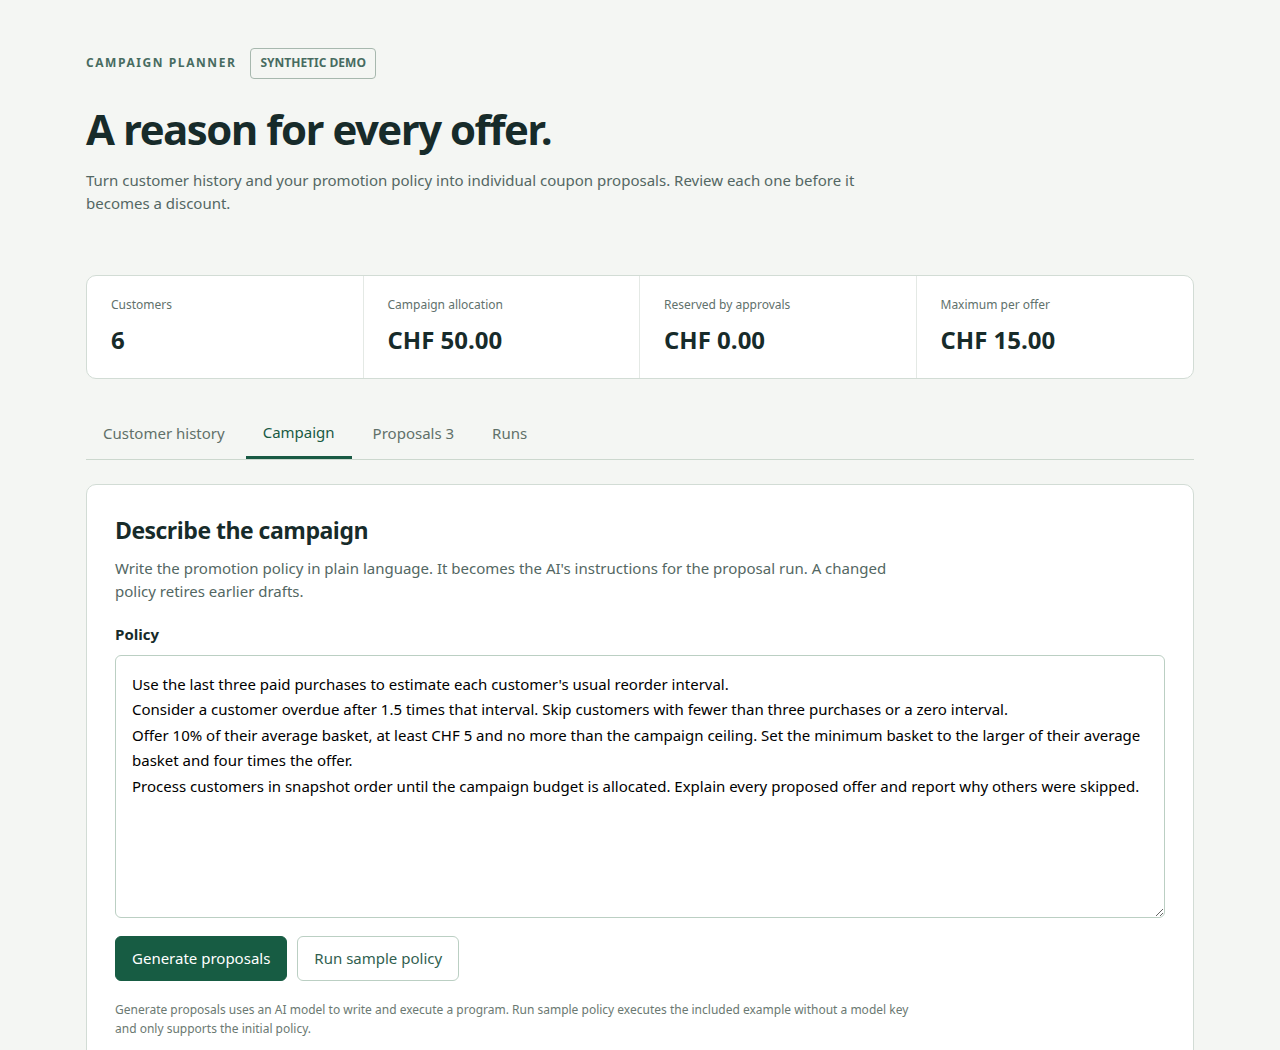
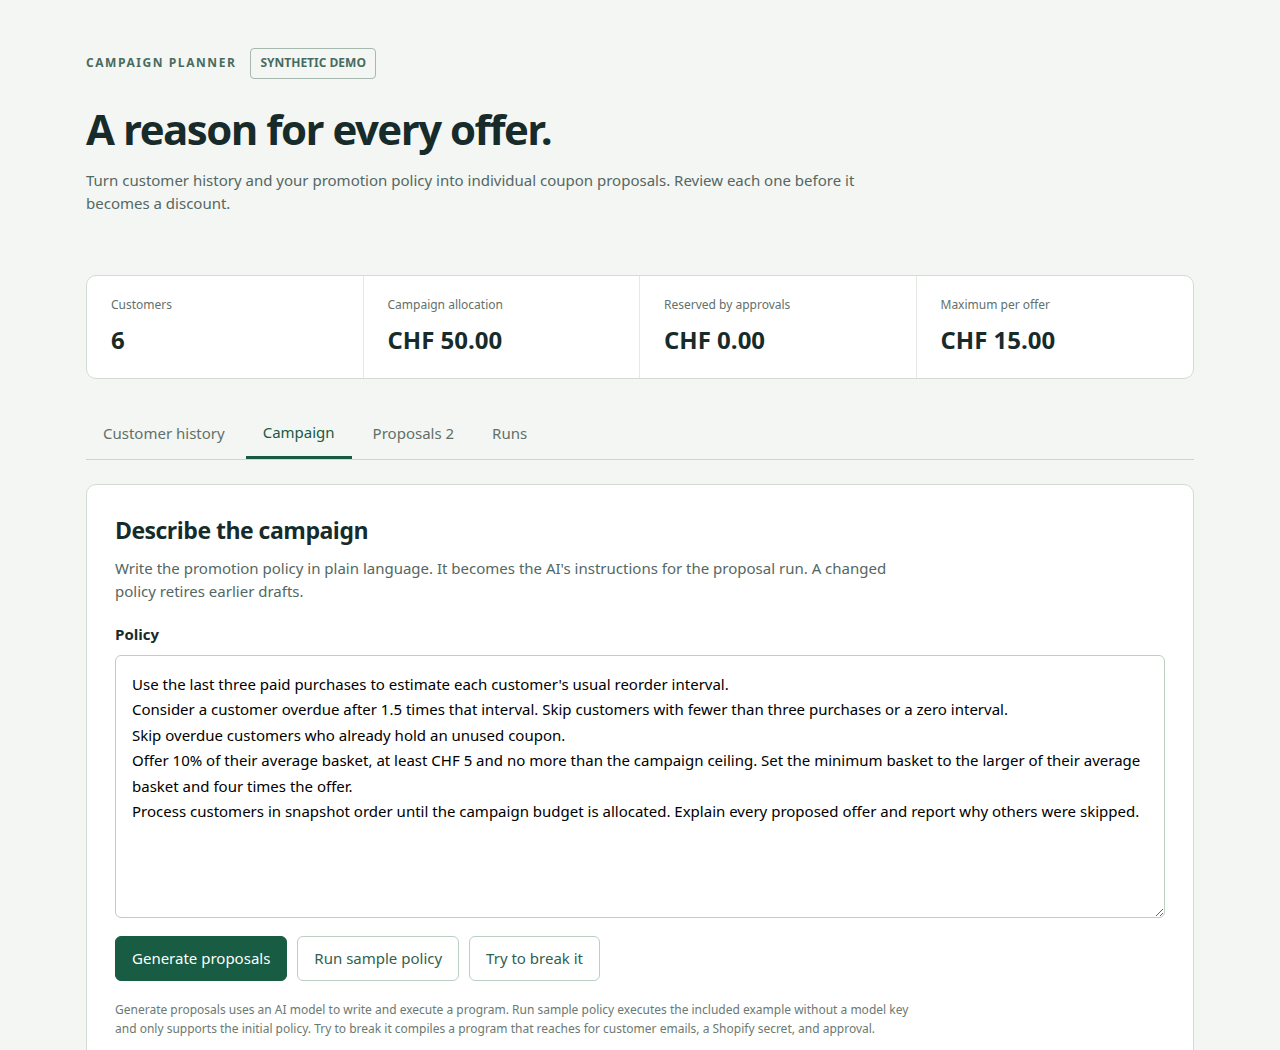
Clarify solution

Changed region(s): [[0.0938, 0.6705, 0.9062, 0.7924], [0.25, 0.9752, 0.6875, 1.0], [0.375, 0.8838, 0.4688, 0.9448]]

diff --git a/docs/content/case-studies/personalized-discounting.md b/docs/content/case-studies/personalized-discounting.md
@@ -53,39 +53,35 @@ discount, yet see only their purchase dates and amounts?**
 - **"Give the program a narrow API."** Right idea, but the program runs beside
   the full data, the access key, and the network. If it can reach around the
   API, the API protects nothing.
-- **"Run it in a sandbox."** A sandbox walls off the machine, not the data. It
-  helps only when paired with a narrow API, built and secured separately, which
-  incurs significant engineering overhead.
-
-What works is a narrow API that is scoped to the task, fixed before any program
-exists, and impossible for the program to reach around. It governs both what
-the program sees and what it does.
+- **"Export the data it needs, and sandbox the program."** Each policy
+  needs different fields and rows. One checks open coupons for a few late
+  customers, another for thousands, and the next never does. The export must
+  fetch everything, for every customer, just in case.
+- **"Sandbox the program and give it a tailored REST API."** This works, but it
+  adds a service to build, host, and secure beside the sandbox.
 
 ## The agentic solution
 
-The owner's application defines the narrow API as a Jo interface. The AI writes
-a Jo program against it, and Harpe compiles the program before running it.
+A narrow API is the right idea, as long as the program cannot reach around it.
+The approach taken by Harpe is to define the API as a Jo interface. The AI writes
+a Jo program against that interface, and the program is compiled before it runs.
+The interface is implemented separately in trusted code, which does the actual
+work on the data.
 
-The program cannot reach around the interface, because
-[all side effects are denied by default](/overview/compile-time-sandboxing/).
-Files, the network, the database, and Python do not exist in the program's
-compilation environment, so the program cannot even name them. It can use only
-what it receives: the `promotions` interface and printing. Anything else is a
-compile error.
-
-![The owner's application holds the store access key, the mapping from stand-in labels to real customer IDs, and approval. Names and addresses are never imported. A Jo interface, checked before the program runs, lets the AI-written program see stand-in labels, purchase dates, and basket amounts, and only save draft offers. Reading a name or calling anything else is rejected before the program runs.](/img/personalized-discounting-boundary.svg)
-
-This is the entire interface:
+This is an example interface:
 
 ```jo
-class Purchase(day: Int, month: Int, subtotalCents: Int)
+class Purchase(date: String, daysAgo: Int, subtotalCents: Int)
 class Customer(id: String, purchases: List[Purchase])
-class Campaign(today: Int, month: Int, currency: String, budgetCents: Int, maxOfferCents: Int)
+class Coupon(amountCents: Int, minimumSpendCents: Int, daysLeft: Option[Int])
+class Budget(currency: String, availableCents: Int, maxOfferCents: Int)
 class Offer(customerId: String, amountCents: Int, minimumSpendCents: Int, reason: String)
 
 interface Promotions
-  def campaign(): Campaign
+  def today(): String
+  def budget(): Budget
   def customers(): List[Customer]
+  def openCoupons(customerId: String): List[Coupon]
   def saveDrafts(offers: List[Offer]): String
 end
 
@@ -93,20 +89,30 @@ param promotions: Promotions
 defer def runTask(): Unit receives IO.stdout, promotions
 ```
 
-It is reviewed once, in version control, and it binds every program the AI will
-ever write.
+**What the program reads.** Each customer is a stand-in label, such as
+`customer-1`, with a list of purchase dates and amounts. `Customer` has no name,
+email, or store ID field, so a program that reads one does not compile. Coupons
+come one customer at a time, when a policy needs to know what that customer
+already holds. A `Coupon` has an amount, a minimum basket, and an expiry, but no
+code. No field holds text a customer typed, so a delivery note cannot steer the
+AI. The store import never fetches names or addresses in the first place.
 
-**What the program sees.** A customer is a stand-in label such as `customer-1`
-and a list of purchase dates and amounts. `Customer` has no name, email, or
-store ID field, so a program that reads one does not compile. The program reads
-no free text, so nothing a customer typed can steer the AI. The store import
-never fetches names or addresses in the first place.
-
-**What the program does.** Its only write is `saveDrafts`. The application
-checks each batch against the per-coupon limit and the budget, and generates the
+**What the program writes.** Its only write is `saveDrafts`. Your code checks
+each batch against the per-coupon limit and the budget, then generates the
 coupon codes. The owner approves each draft before it becomes a single-use
-coupon for that customer. No program can approve a draft, and the store access
-key never leaves the application.
+coupon for that customer. No program can approve a draft.
+
+**Why the program cannot go around the interface.** In Harpe,
+[all side effects are denied by default](/overview/compile-time-sandboxing/).
+Files, the network, the database, and Python are absent from the program's
+compilation environment, so the program cannot even name them. It can use only
+what `runTask` receives: the `promotions` interface and printing. Anything else
+is a compile error, and the store access key never leaves your code.
+
+![The program the AI wrote calls a Jo interface, checked at compile time. Through it the program reads stand-in labels, purchase dates, basket amounts, and open coupons without their codes, and writes only draft offers. Reading a name or calling the network, database, or approval fails to compile. Trusted code implements the interface and does the work on the data: it holds the store access key and the label mapping, checks limits and budget, and generates coupon codes. The owner approves each draft before it becomes a coupon.](/img/personalized-discounting-boundary.svg)
+
+Because the interface is the whole boundary, you review it once, in version
+control, and it binds every program the AI will ever write.
 
 ## Try the demo
 
